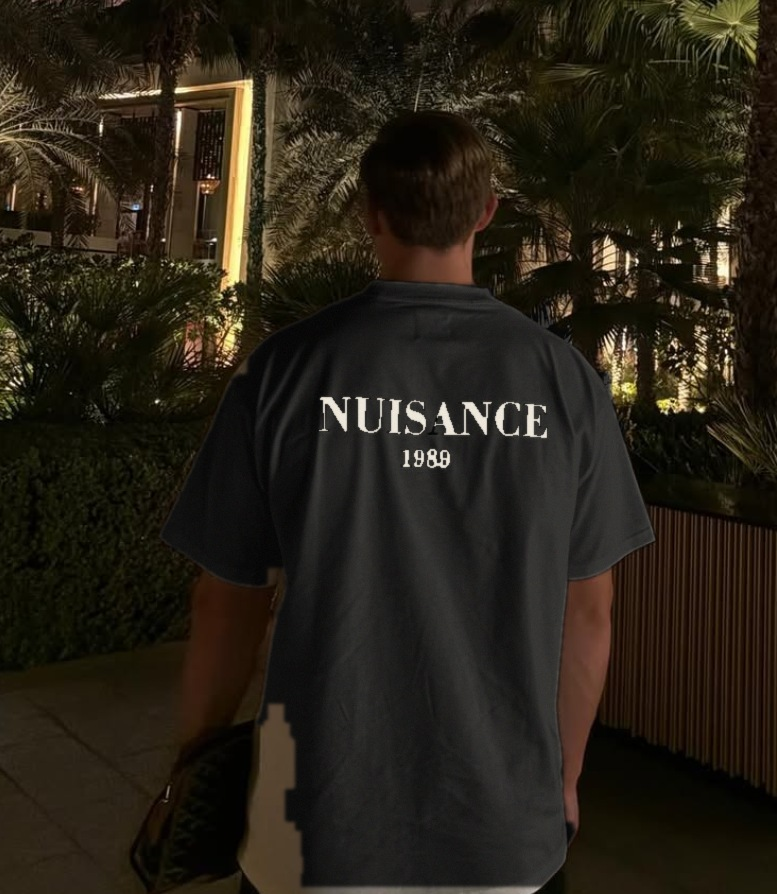
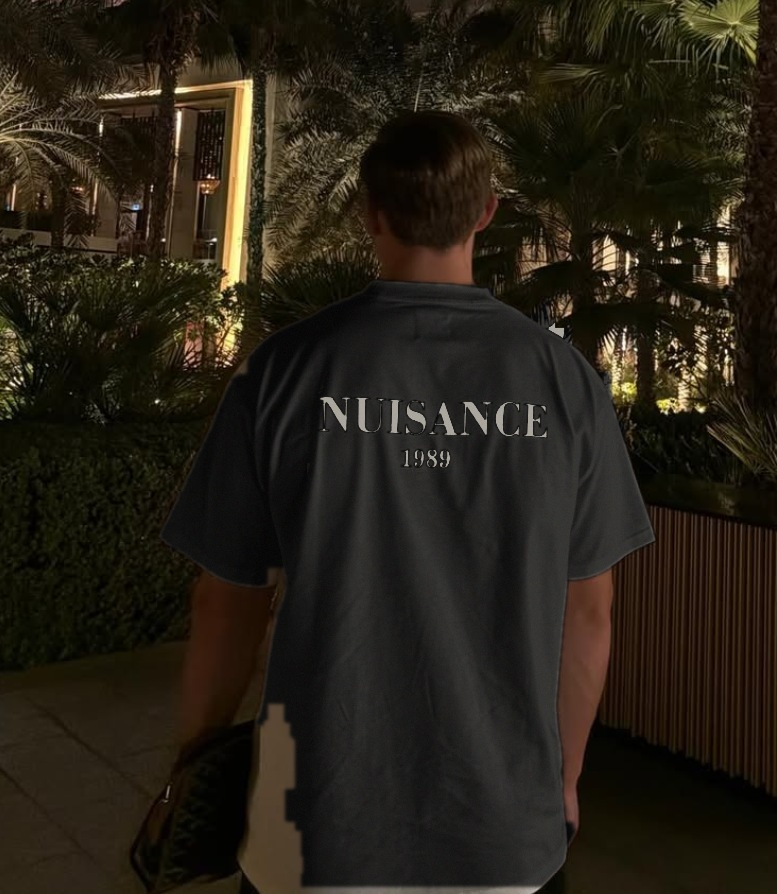
Nuisance 1989: fix print rendering on the black tee, add hover depth-of-field
The recoloured print looked chewed up because of a method error on my side.
The wordmark was recovered with a binary threshold and then filtered by
component size, which eats thin serifs at 777 px and deleted parts of the
digits. The alpha is now continuous, taken from how much darker each pixel is
than the cloth around it, so anti-aliased stroke edges survive as the camera
recorded them.

That alone painted the fabric creases as ink, since a fold is also darker than
its surround, and the tee came back streaked. Measurement separates them: ink
bottoms out at luminance 0.03-0.07 while a crease only reaches 0.22-0.35, so
the depth term is gated by an absolute darkness term. Both stay continuous,
so the letterforms remain smooth. Print coverage moved 3,008 -> 5,695 -> 2,282
px across the three passes as the strokes were recovered and then the creases
excluded. The print also now takes the cloth's own shading rather than sitting
flat on top of it.

Hover depth-of-field on every photo slot in both renditions: a second copy of
the same image, blurred, darkened and masked to an ellipse so it covers only
the surround, fading in on hover. The garment stays sharp and the location
stops competing with it. No extra files, same src.

Restores the source screenshot as source/tee-bone-onbody-master.png. Deleting
it in the previous commit was a mistake: the recolour script reads it.

Claude-Session: https://claude.ai/code/session_01P1VzZrCoVFpANSXkSbJUuG

Changed region(s): [[0.4015, 0.4228, 0.7104, 0.5436], [0.7104, 0.3624, 0.7413, 0.3926]]

diff --git a/nuisance-1989/archive.html b/nuisance-1989/archive.html
@@ -64,6 +64,18 @@ button{font:inherit;color:inherit;background:none;border:0;cursor:pointer}
 .layer img{width:100%;height:100%;object-fit:cover;position:absolute;inset:0}
 .layer__flat{width:min(34%,300px);max-width:100%}
 .layer__flat svg{width:100%;height:auto}
+/* Hover depth-of-field. A second copy of the same photo sits on top, blurred
+   and masked so it covers only the surround, and fades in on hover — the
+   subject stays sharp and the location stops competing with the garment.
+   No extra files: it is the same <img> src, masked. */
+.photo--blur{
+  position:absolute;inset:0;width:100%;height:100%;object-fit:cover;
+  filter:blur(13px) brightness(.66) saturate(.7);
+  opacity:0;transition:opacity .45s ease;pointer-events:none;transform:scale(1.06);
+  -webkit-mask-image:radial-gradient(ellipse 44% 56% at 52% 47%,rgba(0,0,0,0) 40%,#000 84%);
+          mask-image:radial-gradient(ellipse 44% 56% at 52% 47%,rgba(0,0,0,0) 40%,#000 84%);
+}
+.plateview__frame:hover .photo--blur,.plate2:hover .photo--blur{opacity:1}
 .layer--dark{background:#14120F}
 .layer--light{background:var(--leaf)}
 /* the reveal aperture follows the pointer; no JS = the light layer simply sits on top */
@@ -223,10 +235,12 @@ caption{caption-side:bottom;text-align:left;color:var(--graphite);font-size:.75r
     <div class="layer layer--dark">
       <div class="layer__flat" data-shape="tee" data-cloth="asphalt"></div>
       <img src="images/tee-asphalt-back.jpg" alt="Heavyweight tee in Asphalt, back print" onerror="this.remove()">
+      <img class="photo--blur" src="images/tee-asphalt-back.jpg" alt="" aria-hidden="true" onerror="this.remove()">
     </div>
     <div class="layer layer--light" id="lightLayer">
       <div class="layer__flat" data-shape="tee" data-cloth="bone"></div>
       <img src="images/tee-bone-back.jpg" alt="Heavyweight tee in Bone, back print" onerror="this.remove()">
+      <img class="photo--blur" src="images/tee-bone-back.jpg" alt="" aria-hidden="true" onerror="this.remove()">
     </div>
     <div class="hero2">
       <div class="hero2__top">
@@ -520,7 +534,8 @@ caption{caption-side:bottom;text-align:left;color:var(--graphite);font-size:.75r
   document.getElementById("rail").innerHTML = PLATES.map(function(p){
     return '<figure class="plate2' + (p.wide ? " plate2--wide" : "") + '" style="margin:0">' +
       '<div style="width:min(64%,250px)">' + flat(p.shape, p.cloth) + "</div>" +
-      '<img src="images/' + p.f + '" alt="' + p.t + '" loading="lazy" style="position:absolute;inset:0" onerror="this.remove()">' +
+      '<img src="images/' + p.f + '" alt="' + p.t + '" loading="lazy" style="position:absolute;inset:0;width:100%;height:100%;object-fit:cover" onerror="this.remove()">' +
+      '<img class="photo--blur" src="images/' + p.f + '" alt="" aria-hidden="true" loading="lazy" onerror="this.remove()">' +
       '<figcaption class="plate2__cap"><b>' + p.t + "</b><span>" + p.m + "</span></figcaption></figure>";
   }).join("");
 

diff --git a/nuisance-1989/index.html b/nuisance-1989/index.html
@@ -214,6 +214,19 @@ button{font:inherit;color:inherit;background:none;border:0;cursor:pointer}
   transition:transform .6s cubic-bezier(.2,.7,.2,1)}
 .card:hover .photo{transform:scale(1.035)}
 .card__media:has(.photo) .card__slot,.shot:has(.photo) .shot__no{display:none}
+/* Hover depth-of-field. A second copy of the same photo sits on top, blurred
+   and masked so it covers only the surround, and fades in on hover — the
+   subject stays sharp and the location stops competing with the garment.
+   No extra files: it is the same <img> src, masked. */
+.photo--blur{
+  position:absolute;inset:0;width:100%;height:100%;object-fit:cover;
+  filter:blur(13px) brightness(.66) saturate(.7);
+  opacity:0;transition:opacity .45s ease;pointer-events:none;transform:scale(1.06);
+  -webkit-mask-image:radial-gradient(ellipse 44% 56% at 52% 47%,rgba(0,0,0,0) 40%,#000 84%);
+          mask-image:radial-gradient(ellipse 44% 56% at 52% 47%,rgba(0,0,0,0) 40%,#000 84%);
+}
+.card:hover .photo--blur,.card:focus-within .photo--blur,.shot:hover .photo--blur{opacity:1}
+.card:hover .photo,.card:focus-within .photo{transform:none}
 .shot:has(.photo){padding:0}
 .shot .photo{position:absolute}
 .card:hover .card__media .flat{transform:scale(1.045)}
@@ -732,7 +745,9 @@ caption{caption-side:bottom;text-align:left;color:var(--smoke);font-size:.78rem;
     if (!file) return art(p, side);
     return art(p, side) +
       '<img class="photo" src="images/' + file + '" alt="' + alt +
-      '" loading="lazy" onerror="this.remove()">';
+      '" loading="lazy" onerror="this.remove()">' +
+      '<img class="photo--blur" src="images/' + file + '" alt="" aria-hidden="true" ' +
+      'loading="lazy" onerror="this.remove()">';
   }
 
   function art(p, side){
@@ -818,6 +833,7 @@ caption{caption-side:bottom;text-align:left;color:var(--smoke);font-size:.78rem;
       '<span class="shot__no">' + s.spec + "</span>" +
       '<div style="width:min(62%,240px);opacity:.9">' + s.flat + "</div>" +
       '<img class="photo" src="images/' + s.file + '" alt="' + s.t + '" loading="lazy" onerror="this.remove()">' +
+      '<img class="photo--blur" src="images/' + s.file + '" alt="" aria-hidden="true" loading="lazy" onerror="this.remove()">' +
       '<figcaption class="shot__label" style="z-index:2"><b>' + s.t + "</b><span>" + s.m + "</span></figcaption>" +
       "</figure>";
   }).join("");

diff --git a/nuisance-1989/tools-recolour.py b/nuisance-1989/tools-recolour.py
@@ -14,7 +14,7 @@ import numpy as np
 from PIL import Image, ImageFilter
 from scipy import ndimage
 
-SRC = "Screenshot 2026-09-12 122943.png"
+SRC = "source/tee-bone-onbody-master.png"
 im = Image.open(SRC).convert("RGB")
 im = im.crop((0, 0, im.size[0], im.size[1] - 26))     # strip the story dots
 W, H = im.size
@@ -45,23 +45,32 @@ solid = (lab == int(np.argmax(ndimage.sum(solid, lab, range(1, n+1)))) + 1)
 solid = ndimage.binary_fill_holes(solid)
 print(f"garment after grow  {solid.sum():>8,} px  ({100*solid.mean():.1f}% of frame)")
 
-# --- the printed wordmark: dark ink, in the band where the print actually is
-band = (yy > H*0.37) & (yy < H*0.56) & (xx > W*0.405) & (xx < W*0.715)
-local = ndimage.uniform_filter(lum, size=61)          # cloth brightness nearby
-ink = solid & band & (lum < local*0.62)
-ink = ndimage.binary_closing(ink, np.ones((3, 3)))
-lab2, n2 = ndimage.label(ink)
-if n2:
-    s2 = ndimage.sum(ink, lab2, range(1, n2+1))
-    ink = np.isin(lab2, [i+1 for i, v in enumerate(s2) if v >= 55])
-print(f"print mask          {ink.sum():>8,} px  ({n2} components found)")
+# --- the printed wordmark -------------------------------------------------
+# A binary threshold destroys this. The strokes are thin and anti-aliased at
+# 777 px, so any hard cut eats the serifs and a component-size filter deletes
+# parts of the digits. Instead take a CONTINUOUS alpha from how much darker
+# each pixel is than the cloth around it: cloth -> 0, ink core -> 1, and the
+# anti-aliased edge lands in between exactly as the camera recorded it.
+band = (yy > H*0.36) & (yy < H*0.57) & (xx > W*0.395) & (xx < W*0.725)
+local = ndimage.uniform_filter(lum, size=75)          # cloth brightness nearby
+depth = np.clip((local - lum) / np.maximum(local*0.55, 1e-6), 0, 1)
+depth = np.where(solid & band, depth, 0.0)
+
+# A crease is also darker than its surround, so depth alone paints the folds as
+# ink — that was the streaking. Ink bottoms out at luminance 0.03-0.07 while a
+# crease only reaches 0.22-0.35, so gate the depth term with an absolute
+# darkness term. Both are continuous, so anti-aliased stroke edges survive.
+depth_t = np.clip((depth - 0.55) / 0.40, 0, 1)
+lum_t   = np.clip((0.24 - lum) / 0.16, 0, 1)
+p_soft  = ndimage.gaussian_filter(depth_t * lum_t, 0.45)
+p_soft  = np.clip(p_soft * 1.25, 0, 1)
+cover = float((p_soft > 0.5).sum())
+print(f"print alpha         {cover:>8,.0f} px above 0.5   mean {p_soft[band].mean():.3f}")
 
 g_soft = np.asarray(Image.fromarray((solid*255).astype(np.uint8)).filter(
     ImageFilter.GaussianBlur(1.6))).astype(np.float32)/255.0
-p_soft = np.asarray(Image.fromarray((ink*255).astype(np.uint8)).filter(
-    ImageFilter.GaussianBlur(0.6))).astype(np.float32)/255.0
 
-cl = solid & ~ink
+cl = solid & (p_soft < 0.25)
 p3, p97 = np.percentile(lum[cl], 3), np.percentile(lum[cl], 97)
 LO, HI = 0.032, 0.215
 t = np.clip((lum - p3) / max(p97 - p3, 1e-6), 0, 1)
@@ -71,17 +80,18 @@ TINT = np.array([1.00, 0.985, 0.95])
 INK  = np.array([0.929, 0.906, 0.859])
 dark = np.clip((LO + t*(HI-LO))[..., None] * TINT, 0, 1)
 
+shade = np.clip(0.72 + 0.55*t, 0.55, 1.12)[..., None]   # the fold the print lies on
 out = a*(1-g_soft[..., None]) + dark*g_soft[..., None]
-out = out*(1-p_soft[..., None]) + INK*p_soft[..., None]
+out = out*(1-p_soft[..., None]) + np.clip(INK*shade, 0, 1)*p_soft[..., None]
 rng = np.random.default_rng(1989)
 out = np.clip(out + rng.normal(0, 0.009, out.shape)*g_soft[..., None], 0, 1)
 
-Image.fromarray((out*255).astype(np.uint8)).save("tee-asphalt-back.jpg", quality=93)
-im.save("look-01.jpg", quality=93)
-im.save("tee-bone-back.jpg", quality=93)
+Image.fromarray((out*255).astype(np.uint8)).save("images/tee-asphalt-back.jpg", quality=93)
+im.save("images/look-01.jpg", quality=93)
+im.save("images/tee-bone-back.jpg", quality=93)
 
 SC = "/tmp/claude-0/-home-user-Websitemaker/968dd78d-823a-50e1-8c57-38bfbf455297/scratchpad/"
-ov = a.copy(); ov[..., 1] = np.clip(ov[..., 1] + solid*0.45, 0, 1); ov[..., 0] = np.clip(ov[..., 0] + ink*0.9, 0, 1)
+ov = a.copy(); ov[..., 1] = np.clip(ov[..., 1] + solid*0.45, 0, 1); ov[..., 0] = np.clip(ov[..., 0] + p_soft*0.9, 0, 1)
 Image.fromarray((ov*255).astype(np.uint8)).save(SC+"mask-check.png")
 Image.fromarray((out*255).astype(np.uint8)).save(SC+"recolour-check.png")
 print("wrote               tee-asphalt-back.jpg, tee-bone-back.jpg, look-01.jpg")

diff --git a/nuisance-1989/images/README.md b/nuisance-1989/images/README.md
@@ -40,6 +40,7 @@ distance or the hover swap will jump.
 ## The black colourway — how `tee-asphalt-back.jpg` was made
 
 Regenerate it with `python3 tools-recolour.py` from the site folder (needs `pillow numpy scipy`).
+The master is kept at `source/tee-bone-onbody-master.png` — do not delete it, the script reads it.
 
 The photograph is lit from one side at night, so the garment spans luminance 0.11 in the shadowed
 left to 0.76 on the lit right — no single brightness threshold holds both. Saturation separates it
@@ -49,6 +50,14 @@ garment's own tonal range (0.22–0.68) into a dark one (0.03–0.22) so the fol
 crushing to a flat slab. The printed wordmark is masked separately and re-rendered in bone, because
 on a black tee it is a different ink, not the same ink darkened. Fine grain is added over the
 recoloured area so it sits in the same photograph as the background.
+
+**Why the print is masked with a continuous alpha, not a threshold.** The strokes are thin and
+anti-aliased at 777 px. A binary cut eats the serifs and a component-size filter deletes parts of
+the digits, which is what made the first attempt look chewed up. The alpha now comes from how much
+darker each pixel is than the cloth around it, so anti-aliased edges survive exactly as the camera
+recorded them. That alone paints the creases as ink too — a fold is also darker than its surround —
+so it is gated by an absolute darkness term as well: ink bottoms out at luminance 0.03-0.07 while a
+crease only reaches 0.22-0.35. Both terms are continuous, so the letterforms stay smooth.
 
 **It is a mock-up asset, not a product shot.** It is derived from a 777 px screenshot, the mask
 edge against the bag at lower left is slightly blocky, and no customer should be sold a black tee

diff --git a/nuisance-1989/README.md b/nuisance-1989/README.md
@@ -9,6 +9,11 @@ Two renditions of the same brand, deliberately different in strategy rather than
 
 Both are single self-contained files, no build step, and share one `images/` folder.
 
+**Hover depth-of-field.** Every photo slot carries a second copy of the same image, blurred,
+darkened and masked to an ellipse so it covers only the surround. It fades in on hover, dropping the
+location back and leaving the garment sharp — a lifestyle frame then reads as a product shot instead
+of a holiday snap. No extra files: same `src`, masked.
+
 ---
 
 ## Rendition 1 — The Drop (`index.html`)
